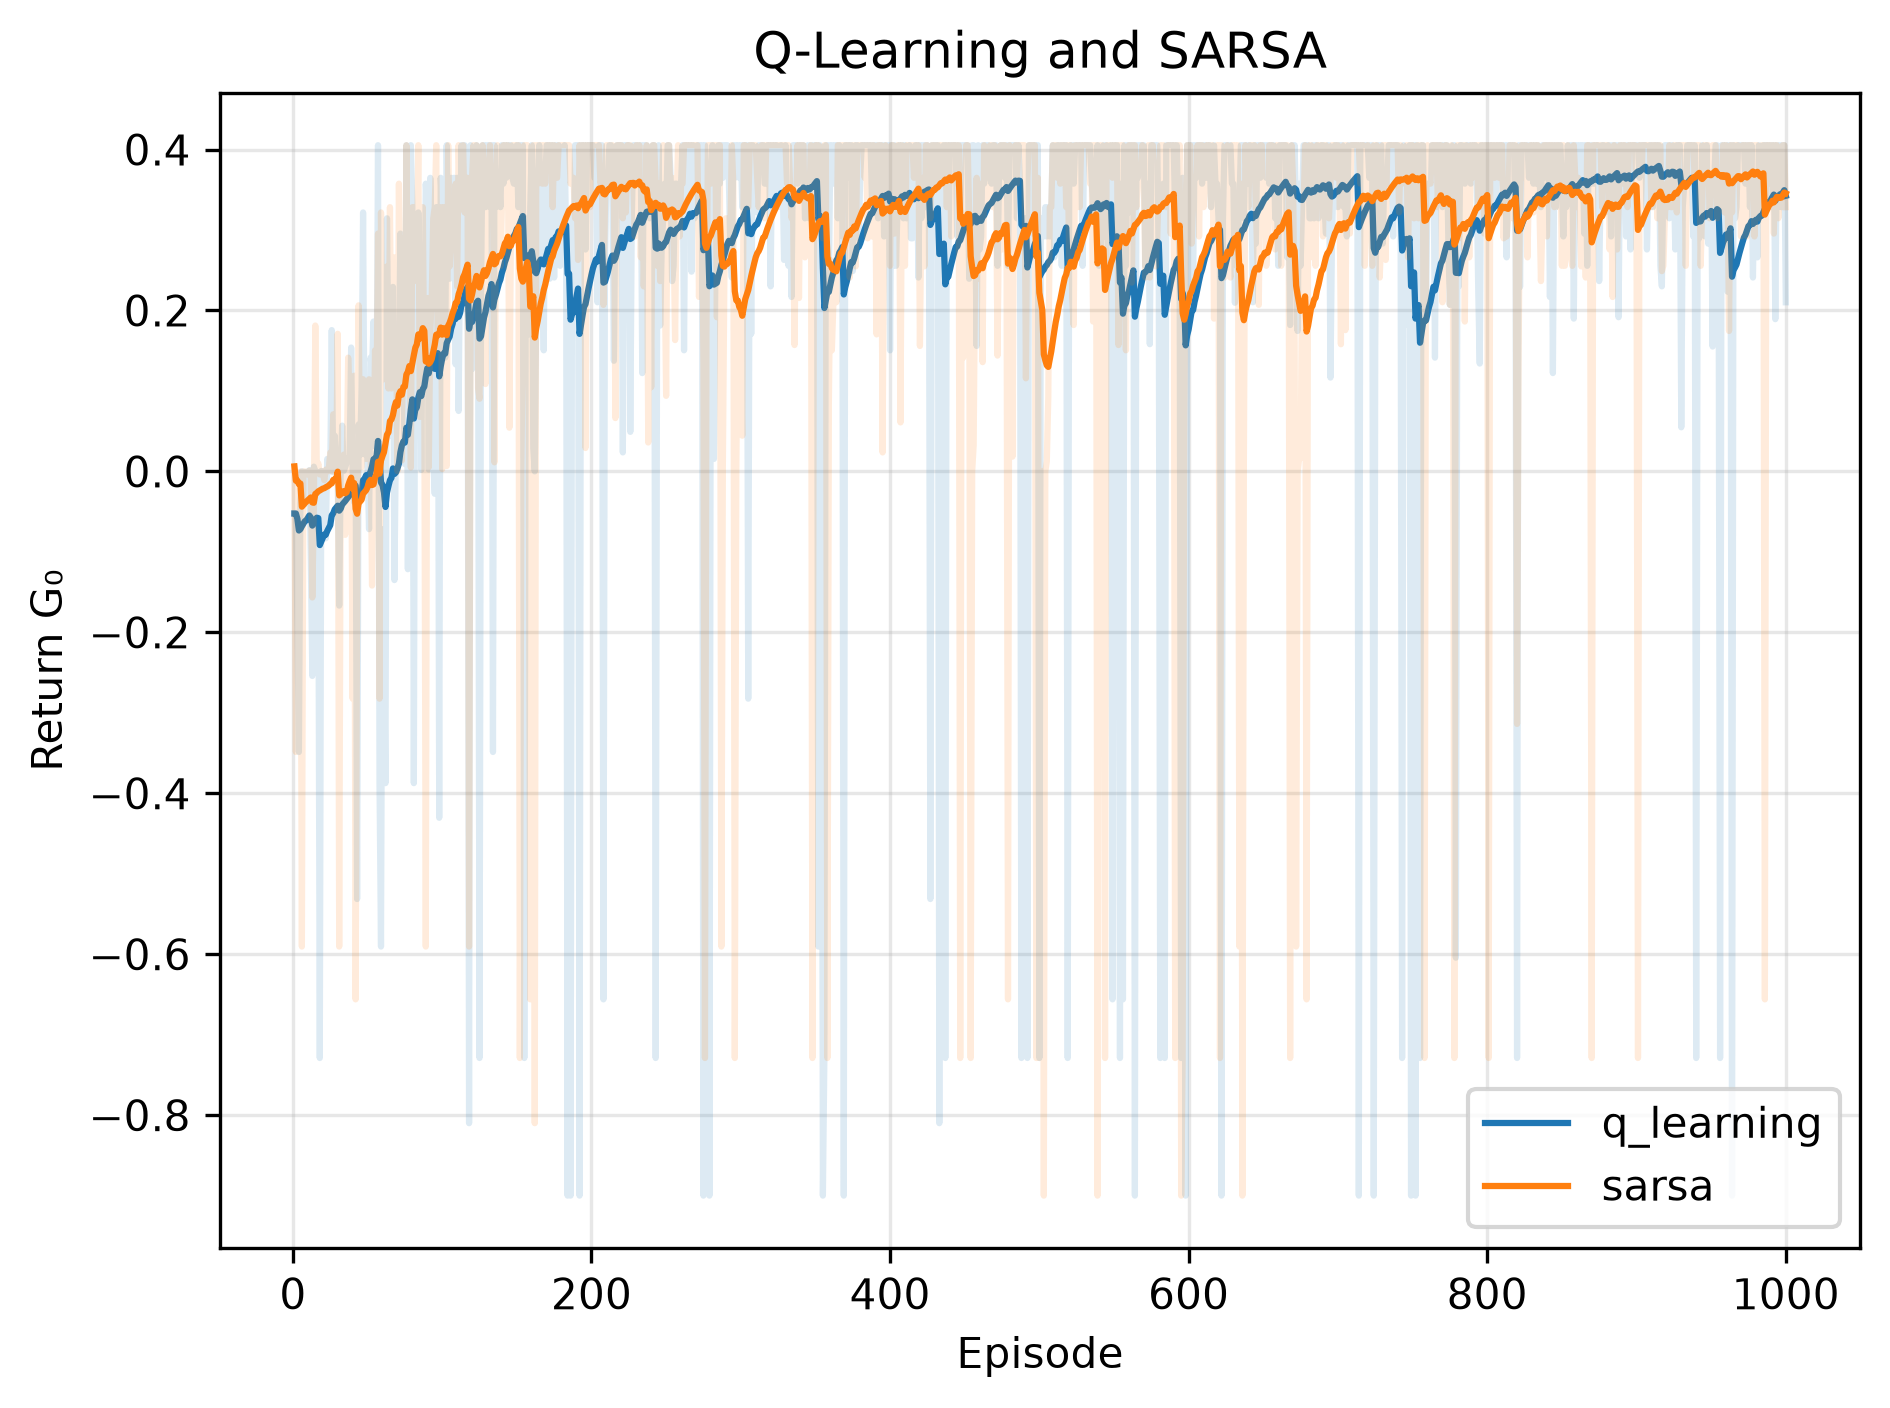
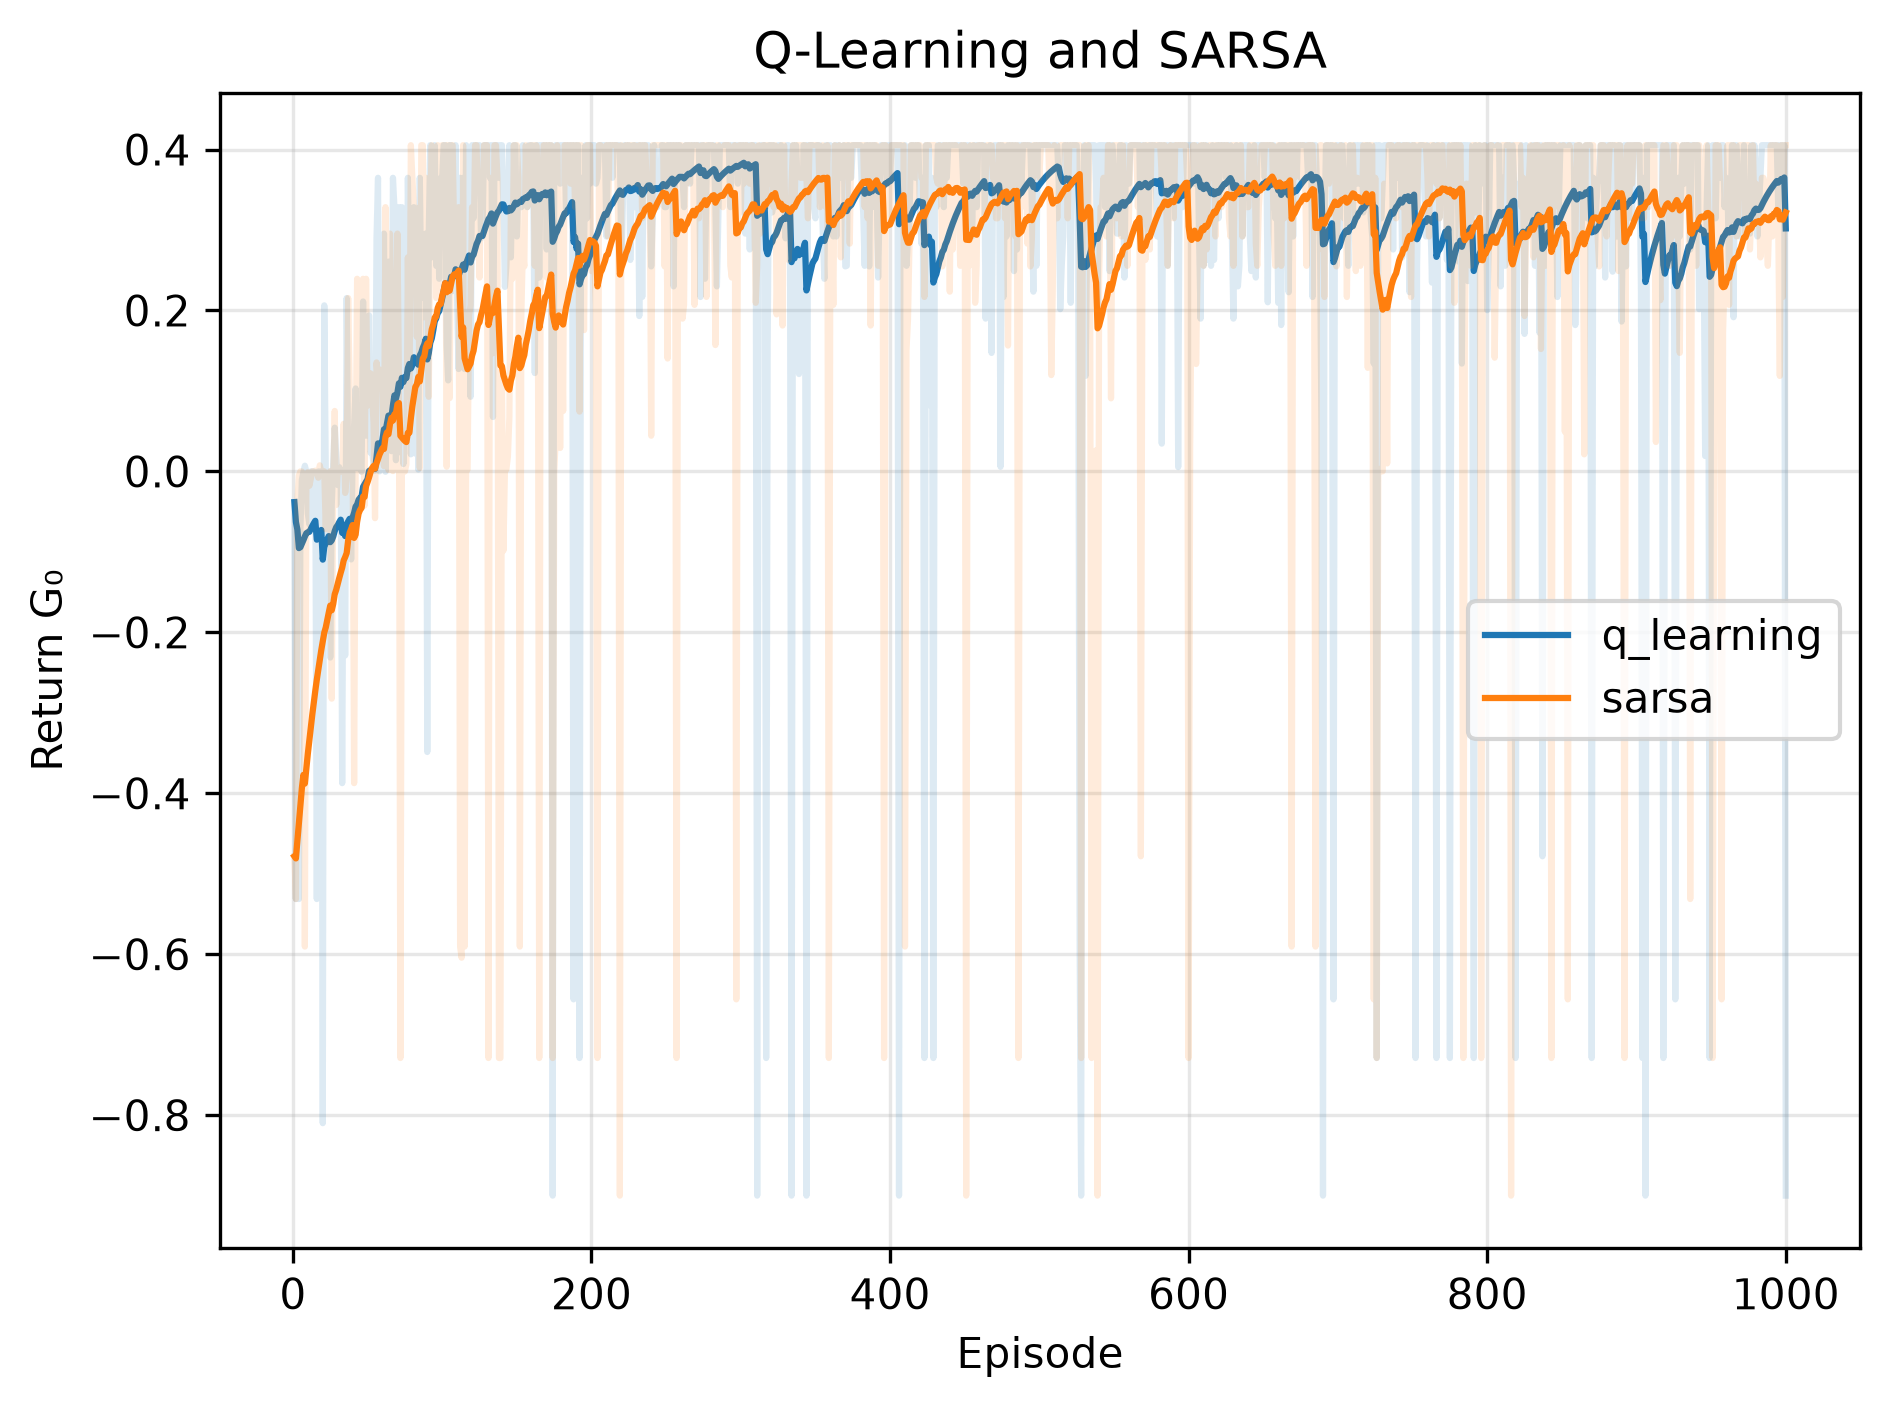
finished testat

Changed region(s): [[0.1561, 0.0938, 0.9677, 0.875], [0.1561, 0.75, 0.1873, 0.7812]]

diff --git a/src/DRL/Homework_2/temp_diff_learning.py b/src/DRL/Homework_2/temp_diff_learning.py
@@ -46,7 +46,7 @@ def train(env, actions, Q, episode_function, num_episodes=1000, epsilon=0.1, alp
     #go through all numbers of episodes
     for episode in range(num_episodes):
         # decide which episode you want to see. care episode start with 0, so 0 ist first episode
-        render = episode in (0, 9, 49, 199, 999)
+        render = episode in ()
         render = False
 
         #print the episode
@@ -229,8 +229,8 @@ if __name__ == "__main__":
         "q_learning": train_q_learning_episode,
         "sarsa": train_sarsa_episode}
 
-
     """
+    
     
    ###########################################train and get the returns for plotting 
     for algorithm, episode_function in episode_functions.items():
@@ -261,9 +261,9 @@ if __name__ == "__main__":
     plt.tight_layout()
     plt.savefig(Path(__file__).resolve().parent / "training_returns.png",dpi=300, bbox_inches="tight")
     plt.show()
-    """
+    #"""
 
     ########################### can show the working policy
-    algorithm = "sarsa"  #or "q_learning"
+    algorithm = "q_learning"  #or "q_learning"
     load_q(algorithm)
     show_agent(env, actions, Q_dict[algorithm])

diff --git a/src/DRL/Homework_2/monte_carlo.py b/src/DRL/Homework_2/monte_carlo.py
@@ -127,13 +127,13 @@ if __name__ == "__main__":
     num_episodes = 1000
 
     #train it
-    #train(env, actions, num_episodes=num_episodes, epsilon=epsilon, gamma=gamma)
+    train(env, actions, num_episodes=num_episodes, epsilon=epsilon, gamma=gamma)
 
     #speicher das mit einer gurke
-    #save_q()
+    save_q()
 
     #lade das mit gurke
-    load_q()
+    #load_q()
 
     #show the policy rendered
     show_agent(env, actions)
